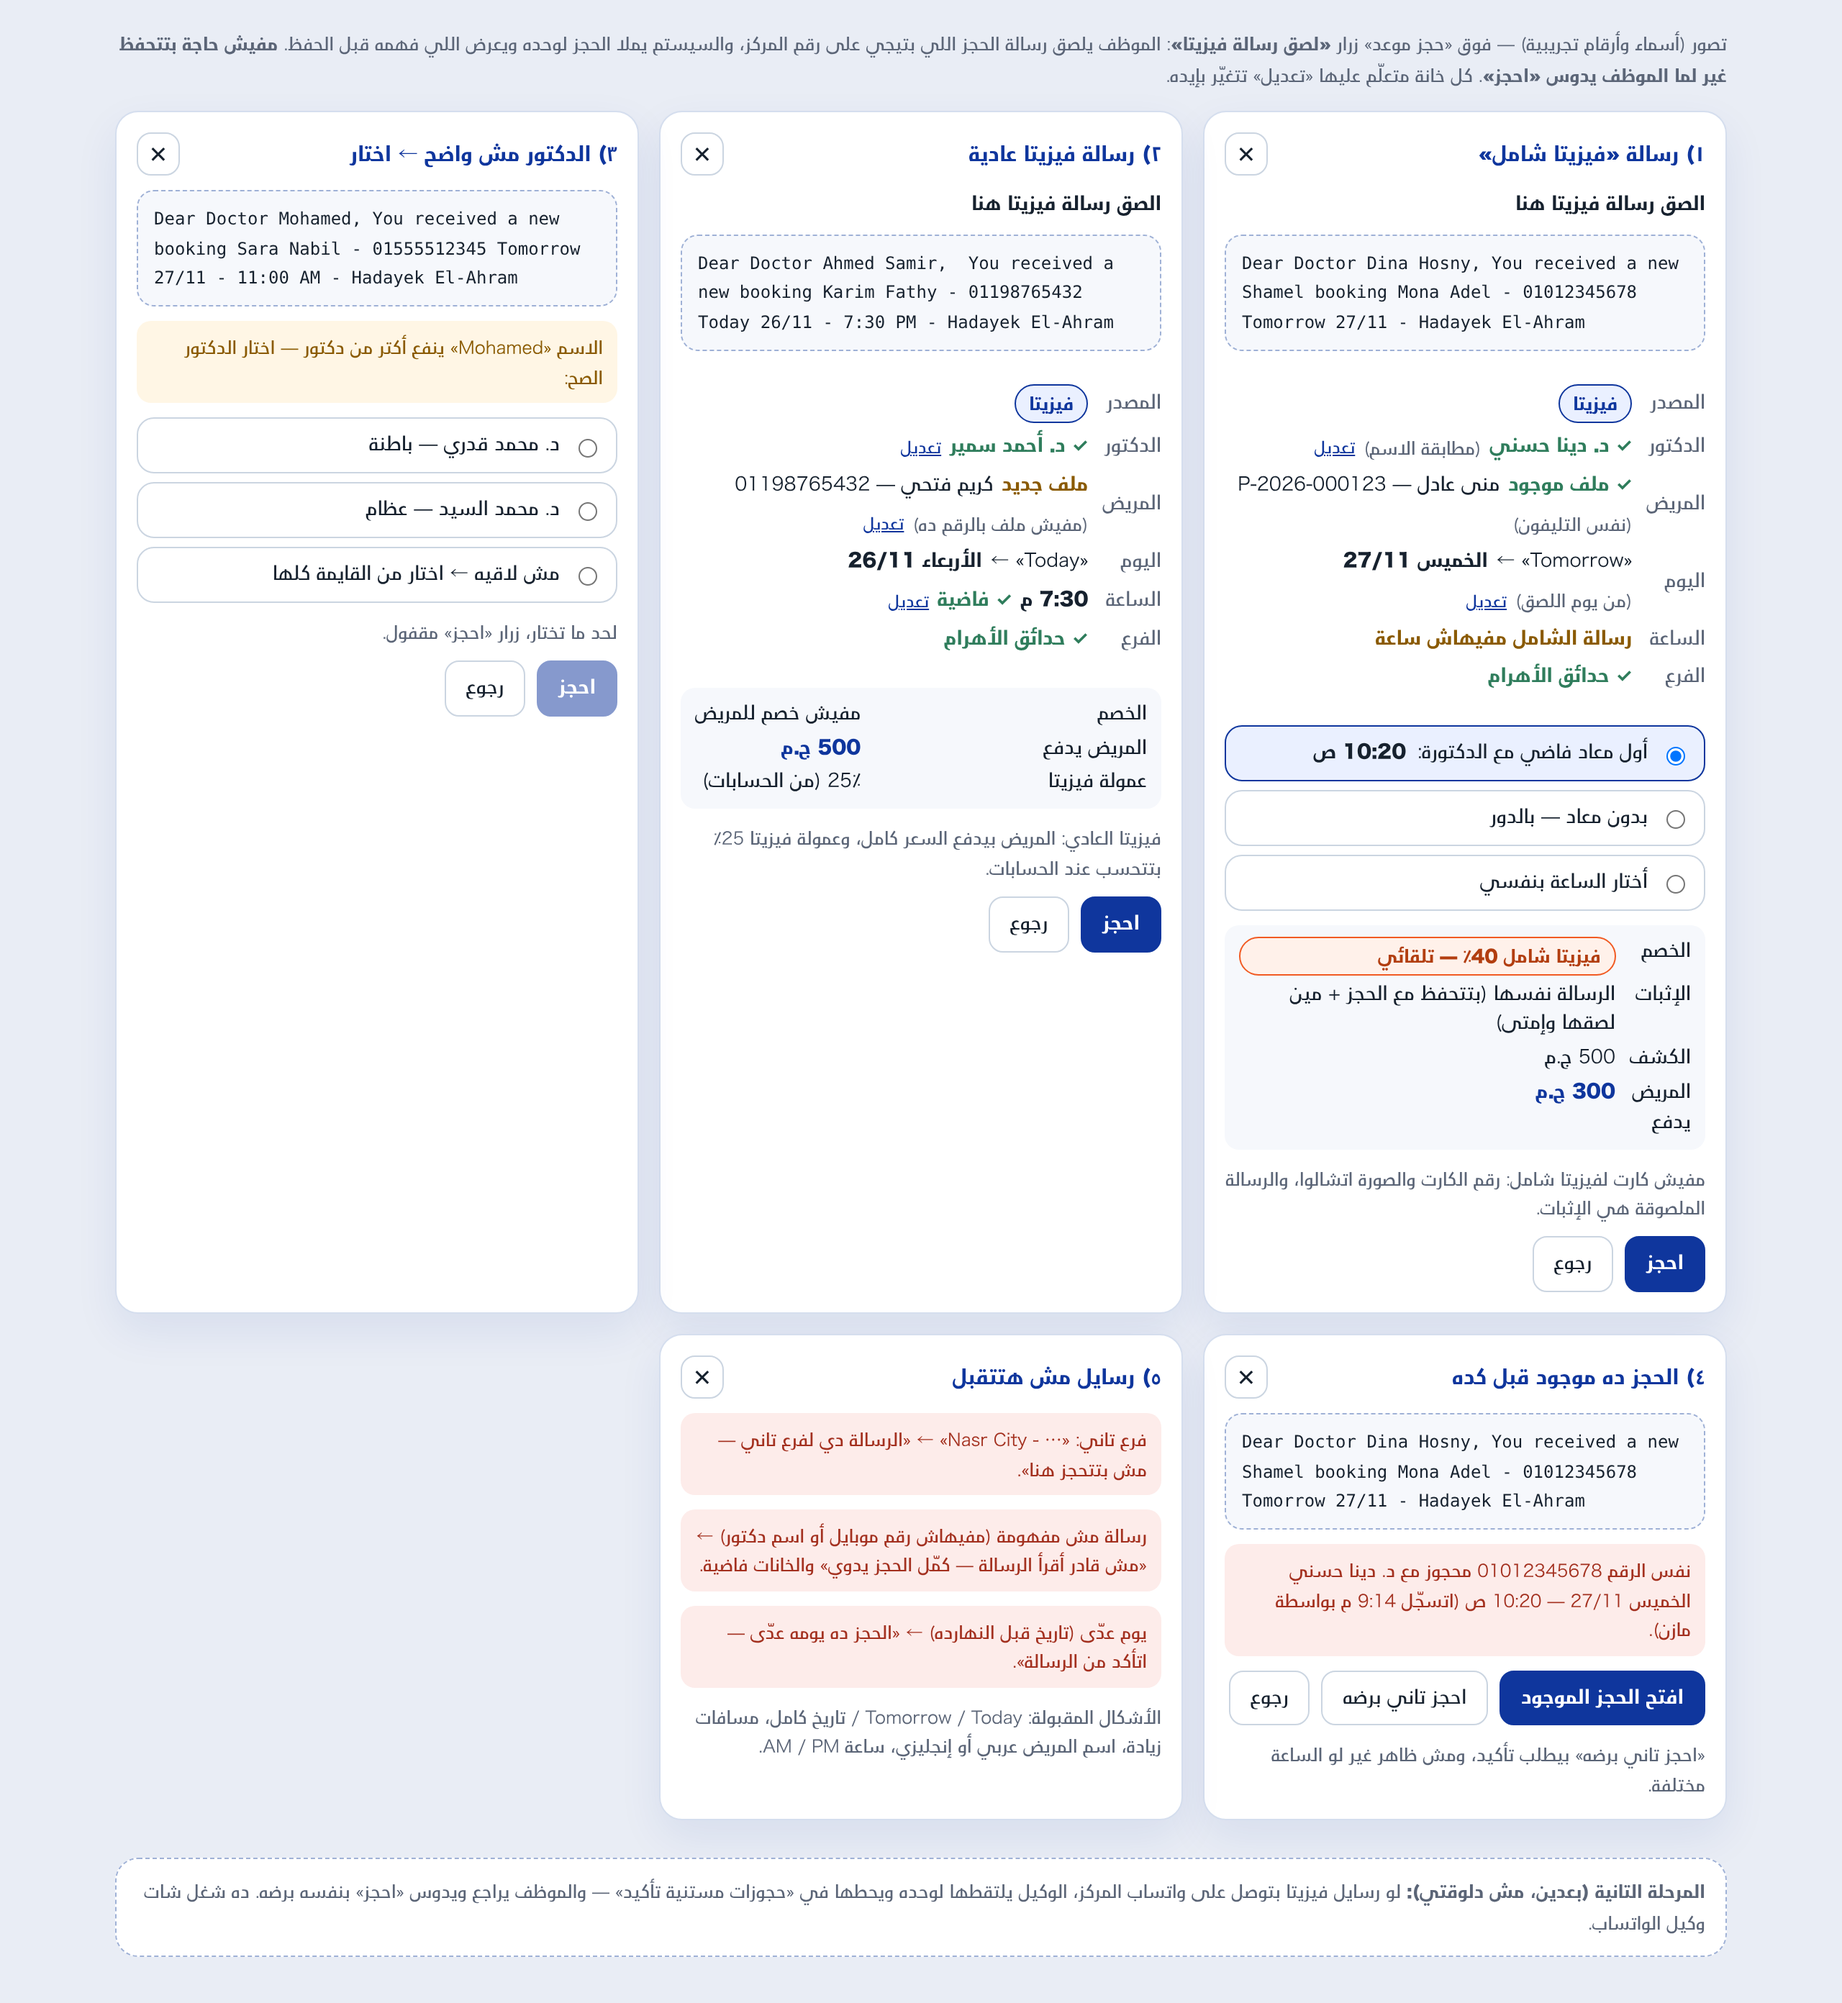
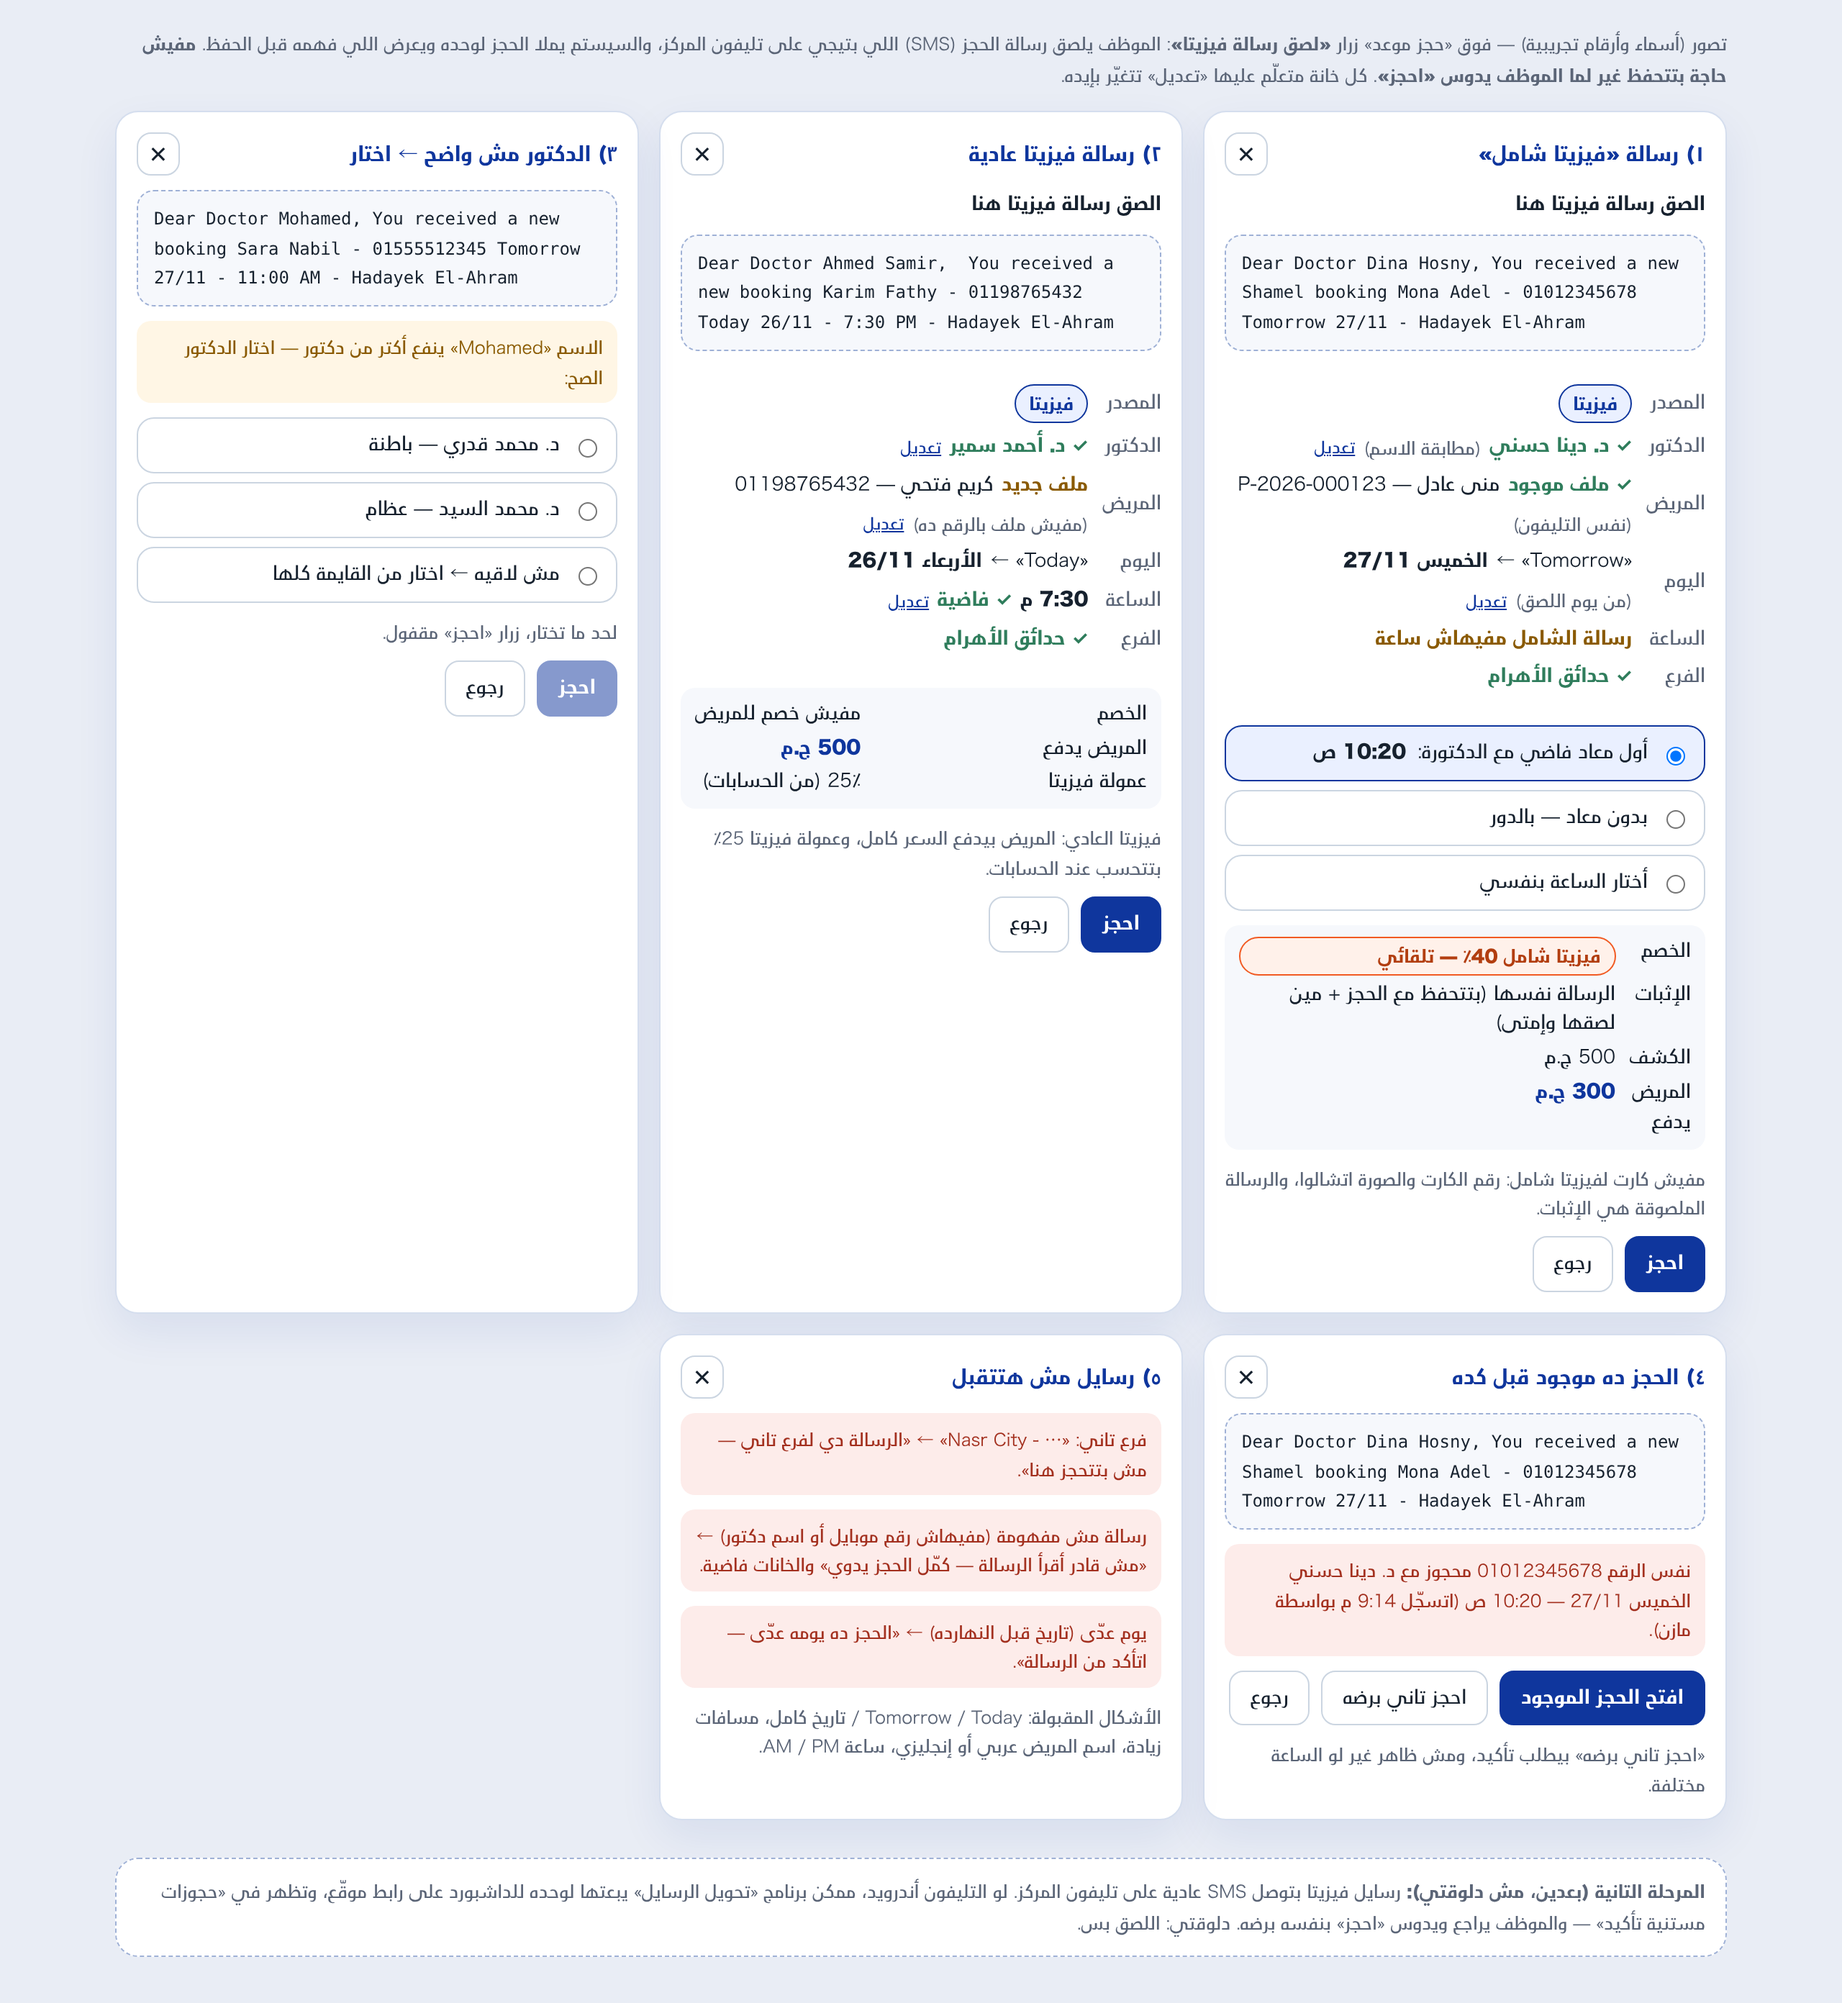
Mockup: phase 2 = SMS forwarder (Vezeeta messages are SMS, not WhatsApp)
Claude-Session: https://claude.ai/code/session_01UqVZHW6epYvnmo5ftQ9K3R

diff --git a/docs/ui-references/mockups/vezeeta-paste-booking.html b/docs/ui-references/mockups/vezeeta-paste-booking.html
@@ -29,7 +29,7 @@ body{background:#e9edf5;margin:0;padding:20px 12px;color:#16212E}
 .opt label.on{border-color:#0F369D;background:#EAF0FF}
 .phase{grid-column:1/-1;background:#fff;border:1px dashed #9fb1d6;border-radius:16px;padding:12px 14px;font-size:12px;color:#5b6577;line-height:1.8}
 </style></head><body><div class="wrap">
-<p class="eyebrow">تصور (أسماء وأرقام تجريبية) — فوق «حجز موعد» زرار <b>«لصق رسالة فيزيتا»</b>: الموظف يلصق رسالة الحجز اللي بتيجي على رقم المركز، والسيستم يملا الحجز لوحده ويعرض اللي فهمه قبل الحفظ. <b>مفيش حاجة بتتحفظ غير لما الموظف يدوس «احجز»</b>. كل خانة متعلّم عليها «تعديل» تتغيّر بإيده.</p>
+<p class="eyebrow">تصور (أسماء وأرقام تجريبية) — فوق «حجز موعد» زرار <b>«لصق رسالة فيزيتا»</b>: الموظف يلصق رسالة الحجز (SMS) اللي بتيجي على تليفون المركز، والسيستم يملا الحجز لوحده ويعرض اللي فهمه قبل الحفظ. <b>مفيش حاجة بتتحفظ غير لما الموظف يدوس «احجز»</b>. كل خانة متعلّم عليها «تعديل» تتغيّر بإيده.</p>
 
 <section class="card" data-card="shamel"><div class="hd"><h3>١) رسالة «فيزيتا شامل»</h3><button class="x" aria-label="إغلاق">✕</button></div>
 <p class="lbl">الصق رسالة فيزيتا هنا</p>
@@ -86,5 +86,5 @@ body{background:#e9edf5;margin:0;padding:20px 12px;color:#16212E}
 <p class="note">الأشكال المقبولة: Tomorrow / Today / تاريخ كامل، مسافات زيادة، اسم المريض عربي أو إنجليزي، ساعة AM / PM.</p>
 </section>
 
-<p class="phase"><b>المرحلة التانية (بعدين، مش دلوقتي):</b> لو رسايل فيزيتا بتوصل على واتساب المركز، الوكيل يلتقطها لوحده ويحطها في «حجوزات مستنية تأكيد» — والموظف يراجع ويدوس «احجز» بنفسه برضه. ده شغل شات وكيل الواتساب.</p>
+<p class="phase"><b>المرحلة التانية (بعدين، مش دلوقتي):</b> رسايل فيزيتا بتوصل SMS عادية على تليفون المركز. لو التليفون أندرويد، ممكن برنامج «تحويل الرسايل» يبعتها لوحده للداشبورد على رابط موقّع، وتظهر في «حجوزات مستنية تأكيد» — والموظف يراجع ويدوس «احجز» بنفسه برضه. دلوقتي: اللصق بس.</p>
 </div></body></html>
